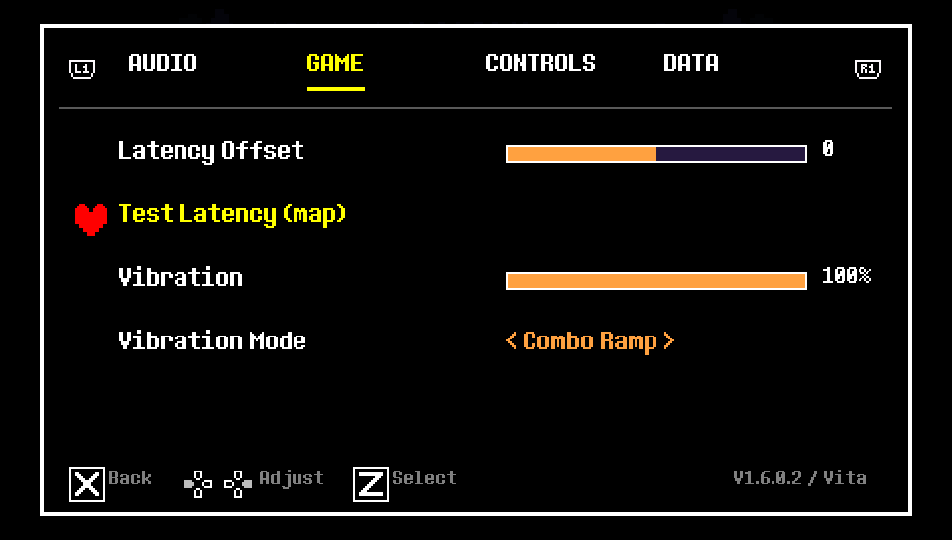
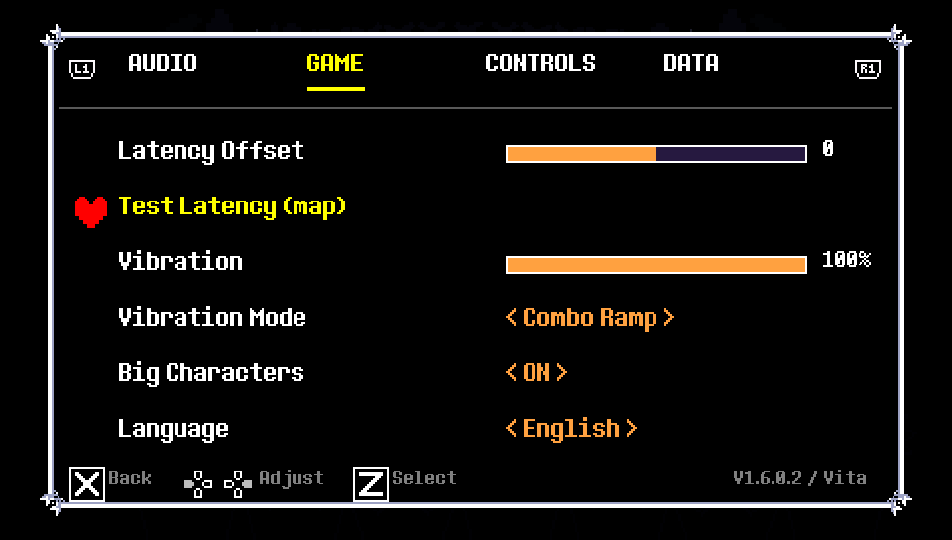
Update screenshots and status for the native show flow, languages and Fun-O-Meter

diff --git a/README.md b/README.md
@@ -35,7 +35,8 @@ All 121 built-in songs load and play on the Vita with notes in sync with the mus
 | Gameplay | All built-in songs playable; hold notes, sparks and lane borders drawn natively |
 | Audio | Music, notes, character voices and UI sounds working |
 | Loading | Game data packed into a single `game.pck` |
-| Custom maps | Present, interface rework planned |
+| Custom maps | Same interface as the song select |
+| Languages | English, Spanish and Brazilian Portuguese |
 | Public VPK / Release | Not available yet |
 
 _If you enjoy my work, consider supporting the development!_
@@ -60,6 +61,9 @@ _If you enjoy my work, consider supporting the development!_
   <img src="assets/screenshots/welcome.png" width="45%" alt="Tenna welcome dialog">
   <br>
   <img src="assets/screenshots/show_opening.png" width="45%" alt="Show opening">
+  <img src="assets/screenshots/tutorial.png" width="45%" alt="Tenna's tutorial">
+  <br>
+  <img src="assets/screenshots/credits.png" width="45%" alt="Creator links">
   <img src="assets/screenshots/show_end.png" width="45%" alt="Audience applause">
 </p>
 
@@ -76,7 +80,11 @@ The Vita renderer only draws rectangles and textured sprites, so every new scree
 - **Options:** tabbed screen (Audio, Game, Controls, Data) for volumes, latency offset, vibration and button prompts. Talking to Swatch in the café opens it after a short dialog.
 - **Welcome messages:** Tenna delivers the first-time and update notes as dialog instead of text panels.
 - **Song select:** chapter tabs on L / R, the SOUL cursor, cover art, difficulty, composer, best score with full-combo colours and the cover-music toggle.
-- **The show:** Tenna announces each song before it starts, missed notes briefly dip the music, and the Chapter 3 audience applauds at the end.
+- **The show:** every song opens on the real stage like the first Lightners Live in Chapter 3 (band in silhouette, spotlights, crowd, Tenna's announcement), with Tenna's tutorial on the first play.
+- **Fun-O-Meter:** the Chapter 3 meter fills with good playing; at half, Star Power turns the notes orange for double points.
+- **Results:** a blue results screen with Retry / Café / Next song, while the Chapter 3 audience applauds.
+- **Best Songs:** a tab with ten standout DELTARUNE tracks.
+- **Languages:** English, Spanish and Brazilian Portuguese, switchable in Options.
 
 This is an **unofficial fan project**, not affiliated with or endorsed by EzioEagle, Toby Fox, Sony, or the Godot Engine project.
 
@@ -90,16 +98,14 @@ This is an **unofficial fan project**, not affiliated with or endorsed by EzioEa
 | Cross | Confirm / interact |
 | Circle | Back (hold to run in the café) |
 | L / R (menus) | Switch tabs |
-| Square | Cover music toggle in the song select |
+| Square | Cover music toggle (song select) / Star Power (during a song) |
 | Triangle (hold) | Return to the café during a song |
 
 ## Current development priorities
 
-- Rebuild the song opening as the full Chapter 3 first-show sequence and use it as the game's intro.
-- Tenna's tutorial on the first play, a darkening fade when leaving a song, and Retry / Café / Next song choices at the end.
-- The Chapter 3 popularity meter driven by accuracy, with a double-points power.
-- English, Spanish and Brazilian Portuguese interface.
-- Rework the custom maps and credits screens.
+- Confirm the new show flow, Fun-O-Meter and results screen on hardware.
+- Measure song select and gameplay frame rate on the Vita.
+- Prepare an installation method that does not redistribute the game's files.
 
 See [Development status](docs/PORT_STATUS.md).
 

diff --git a/docs/PORT_STATUS.md b/docs/PORT_STATUS.md
@@ -14,8 +14,10 @@ These are development tests, not guarantees about a release build.
 | Options | Under test | Tabbed Deltarune-style screen; values save with the game's settings |
 | Song select | Under test | Rebuilt for speed; the old list dropped to ~23 FPS on the Vita |
 | Show opening / ending | Under test | Tenna announces each song; audience applause at the end |
-| Custom maps | Original interface | Rework planned |
-| Languages | English only | English, Spanish and Brazilian Portuguese planned |
+| Custom maps | Under test | Same interface as the song select |
+| Languages | Under test | English, Spanish and Brazilian Portuguese |
+| Fun-O-Meter / Star Power | Under test | Double points shown as a bonus; saved high scores unchanged |
+| Results screen | Under test | Blue results screen with Retry / Café / Next song |
 | Public downloadable build | Not available | No game files are distributed |
 
 ## Rendering
@@ -32,7 +34,6 @@ Music plays through the Vita's BGM audio port at 48 kHz. The MIDI note clock is 
 
 ## Known issues
 
-- Custom maps and the creator's links screen still use the original interface.
 - Store and web links do not open anything on the Vita.
 - The new screens have been tested on the PC build of the Vita data; full hardware testing is in progress.
 
